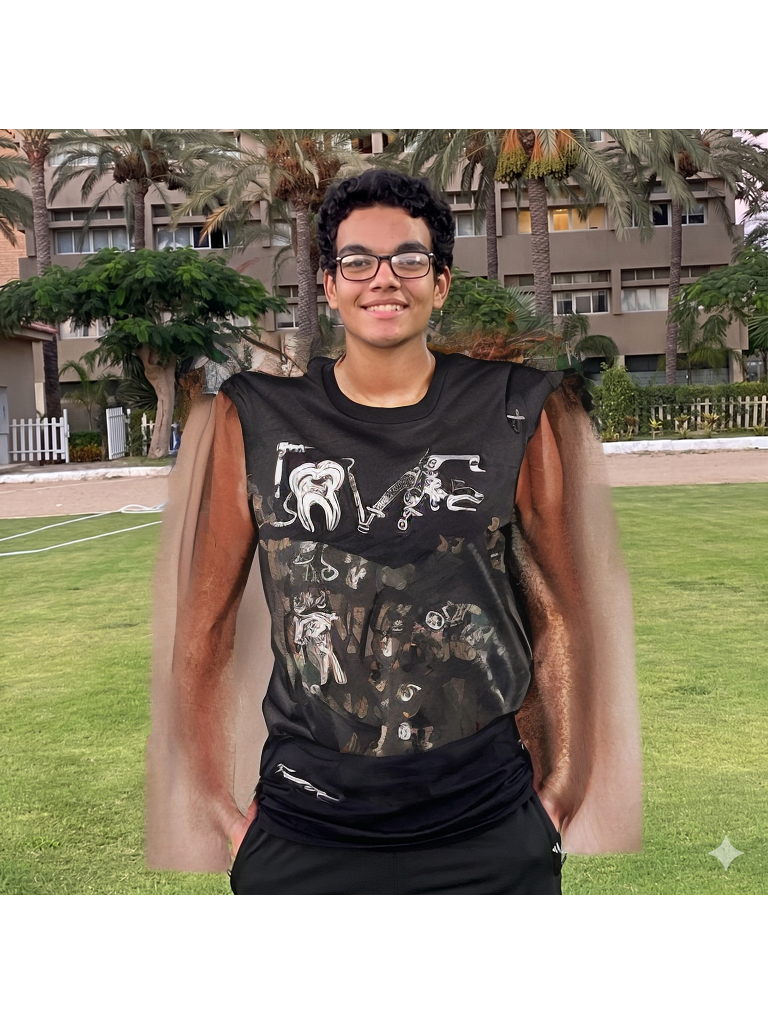
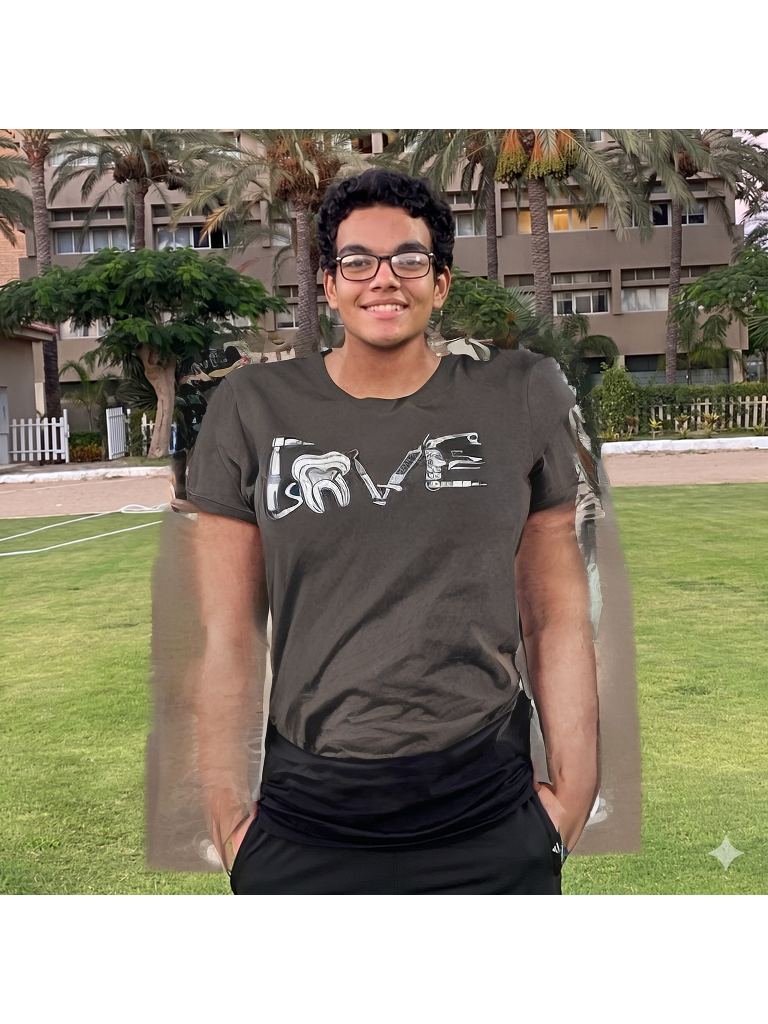
Natural Physique Taper + True Black Color Lock

Changed region(s): [[0.1875, 0.3125, 0.8438, 0.875]]

diff --git a/wearcast/inference_wearcast_hd.py b/wearcast/inference_wearcast_hd.py
@@ -447,17 +447,18 @@ class WearCastHD:
         lum_gap = garm_lum_mean - gen_lum_mean
         print(f"   [DIAG] Raw UNet luminance: {gen_lum_mean:.1f} | Reference: {garm_lum_mean:.1f} | Gap: {lum_gap:.1f}")
 
-        # --- NEW: VFX Grade Histogram Match ---
-        # Matches the entire color distribution (shadows, midtones, highlights)
+        # --- NEW: True-Black Color Lock ---
+        # Forces the output to match the deep colors of the original garment
         if len(gen_in_mask) > 100:
             from skimage import exposure
-            # Match generated shirt to studio reference shirt
             matched = exposure.match_histograms(gen_arr.astype(np.uint8), garm_arr.astype(np.uint8), channel_axis=-1)
-            # 60/40 blend ensures we keep AI details but use real-world lighting
-            gen_arr = (gen_arr * 0.60 + matched.astype(np.float32) * 0.40).clip(0, 255)
-            print(f"   [CORR] VFX Grade Histogram Match Applied (Soft 40% blend)")
+            # Dynamic Blend: If the garment is dark (Black/Navy), we use 90% Match to prevent "greying"
+            blend_ratio = 0.90 if garm_lum_mean < 60 else 0.40
+            gen_arr = (gen_arr * (1 - blend_ratio) + matched.astype(np.float32) * blend_ratio).clip(0, 255)
+            print(f"   [CORR] True-Black Color Lock Applied (Blend: {blend_ratio*100:.0f}%)")
         else:
-            print(f"   [CORR] Histogram match skipped (insufficient mask pixels)")
+            print(f"   [CORR] Color lock skipped (insufficient mask pixels)")
+
 
 
 
@@ -926,15 +927,24 @@ class WearCastHD:
                 else:
                     spine_proj = np.array([mid_shoulder[0], bottom_y])
 
-                # --- NEW: Anatomical Hull (Torso Polygon) ---
-                # Creates a solid block of "allowed" area between shoulders and hips
+                # --- NEW: Anatomical Hull (Natural Body Taper) ---
+                # We use actual hips instead of vertical lines to prevent "Massive Man" distortion
+                # This keeps the person's natural physique.
+                h_r = hip_r if hip_r[0] > 1 else np.array([shoulder_right[0], model_parse.height])
+                h_l = hip_l if hip_l[0] > 1 else np.array([shoulder_left[0], model_parse.height])
+                
+                # Add 5% safety margin to hips to catch shirt hem
+                h_r_safe = h_r + np.array([s_width * 0.05, 0])
+                h_l_safe = h_l - np.array([s_width * 0.05, 0])
+
                 torso_pts = np.array([
                     shoulder_right,
                     shoulder_left,
-                    [shoulder_left[0], model_parse.height],
-                    [shoulder_right[0], model_parse.height]
+                    h_l_safe,
+                    h_r_safe
                 ], dtype=np.int32)
                 cv2.fillPoly(spatial_prior, [torso_pts], 1)
+
 
                 # Draw neck/spine line for connectivity
                 cv2.line(spatial_prior, (int(neck[0]), int(neck[1])), (int(mid_shoulder[0]), int(mid_shoulder[1])), 1, thickness=10)
